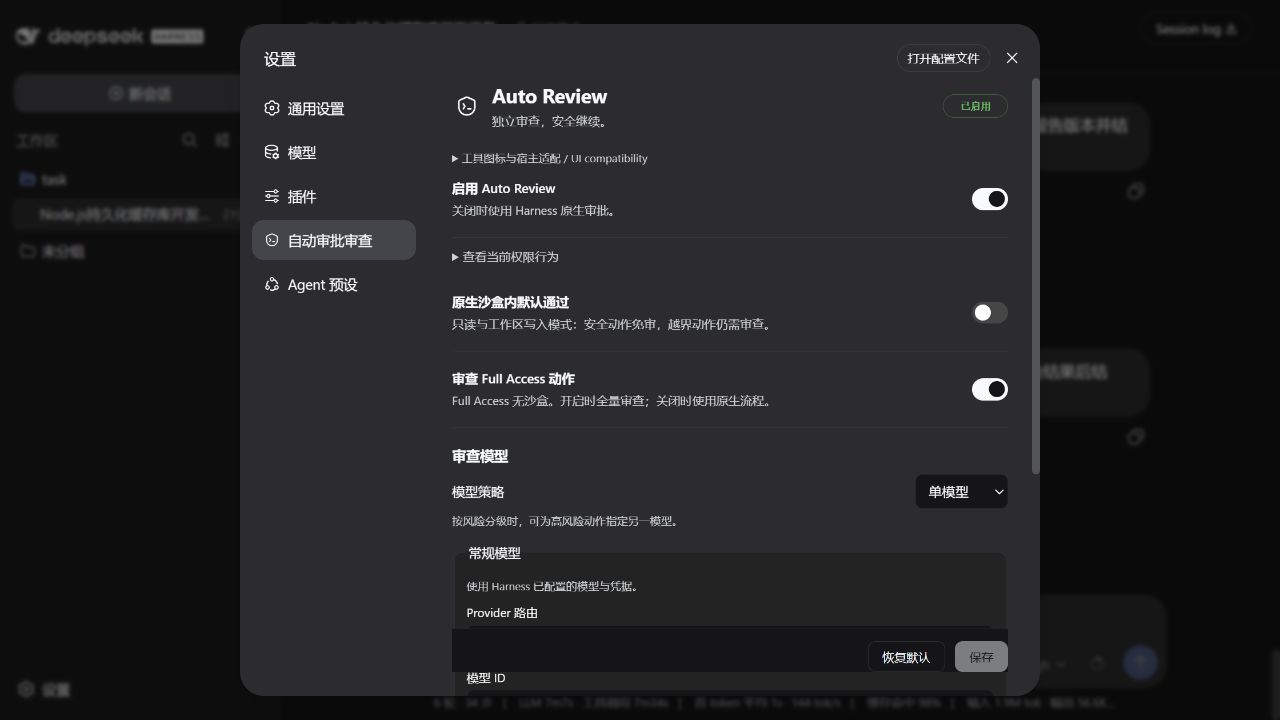
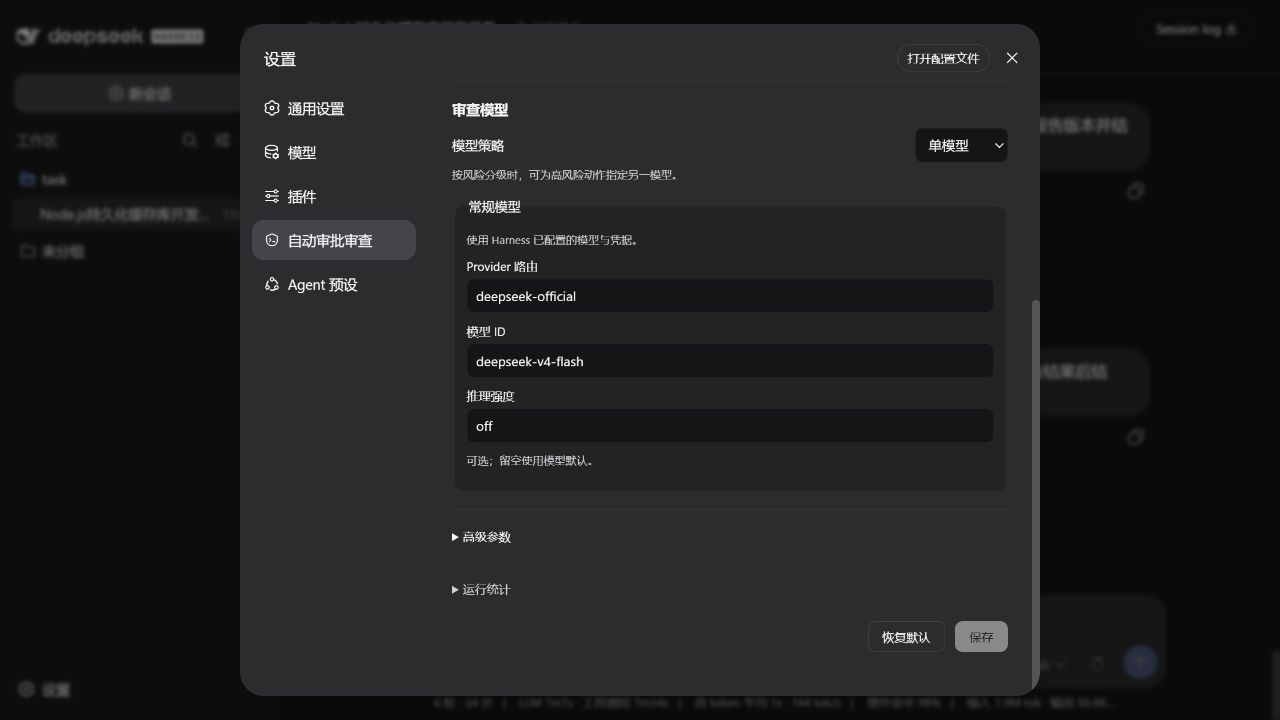
fix(#30): 修复设置底栏遮挡并补充简明流程与成本提示

diff --git a/src/client/index.tsx b/src/client/index.tsx
@@ -400,7 +400,7 @@ export function AutoReviewSettingsSection({ read, update, reset: resetSettings, 
 }
 
 const CSS = `
-.ar-controls{border:0;padding:0;margin:0;min-width:0}.ar-controls:disabled{opacity:.65}.ar-actions{position:sticky;bottom:0;background:var(--dsw-alias-bg-base);padding:12px 0;z-index:1}.ar-page :focus-visible{outline:2px solid var(--dsw-alias-brand-primary);outline-offset:3px}
+.ar-controls{border:0;padding:0;margin:0;min-width:0}.ar-controls:disabled{opacity:.65}.ar-page :focus-visible{outline:2px solid var(--dsw-alias-brand-primary);outline-offset:3px}
 .ar-header-title{display:flex;align-items:flex-start;gap:10px}.ar-product-logo{display:inline-grid;place-items:center;flex:0 0 auto;width:30px;height:30px;color:var(--dsw-alias-label-primary)}
 .ar-help{display:block!important;margin-top:5px!important;color:var(--dsw-alias-label-secondary)!important;font-size:11px!important;line-height:1.45!important;font-weight:400!important}.ar-setting-block{margin:10px 0 14px}.ar-setting-block .ar-select-row{margin-bottom:0}.ar-indented-help{margin-left:23px!important}.ar-advanced-help{margin-top:9px!important}.ar-field-grid .ar-field-source{font-size:10px}.ar-field-grid .ar-help{margin-top:0!important}
 .ar-page{max-width:760px;padding:8px 4px 36px;color:var(--dsw-alias-label-primary)}.ar-header{display:flex;justify-content:space-between;gap:24px;align-items:flex-start;margin-bottom:18px}.ar-header h2{font-size:22px;margin:0 0 6px}.ar-header p,.ar-card p{margin:0;color:var(--dsw-alias-label-secondary);line-height:1.5}.ar-live{font:600 10px/1.8 ui-monospace,monospace;color:var(--dsw-alias-state-success-primary);border:1px solid color-mix(in srgb,var(--dsw-alias-state-success-primary) 35%,transparent);border-radius:999px;padding:0 8px}.ar-card{background:var(--dsw-alias-bg-layer-1);border:1px solid var(--dsw-alias-border-l1);border-radius:12px;padding:18px;margin:12px 0}.ar-toggle-row{display:flex;align-items:center;justify-content:space-between;gap:22px}.ar-toggle-row strong,.ar-card h3{display:block;margin:0 0 5px;font-size:14px}.ar-switch{width:44px;height:24px;border:0;border-radius:999px;padding:3px;background:var(--dsw-alias-border-l2);cursor:pointer}.ar-switch span{display:block;width:18px;height:18px;border-radius:50%;background:#fff;transition:transform .15s}.ar-switch[aria-checked=true]{background:var(--dsw-alias-brand-primary)}.ar-switch[aria-checked=true] span{transform:translateX(20px)}.ar-select-row{display:flex;align-items:center;justify-content:space-between;gap:16px;margin:10px 0}.ar-select-row select,.ar-profile-grid input{box-sizing:border-box;border:1px solid var(--dsw-alias-border-l1);border-radius:7px;padding:8px;background:var(--dsw-alias-bg-base);color:inherit}.ar-profile-grid{display:grid;grid-template-columns:repeat(2,minmax(0,1fr));gap:12px}.ar-profile-grid fieldset{border:1px solid var(--dsw-alias-border-l1);border-radius:9px;padding:12px}.ar-profile-grid label{display:flex;flex-direction:column;gap:5px;font-size:12px;margin:8px 0}.ar-check{display:flex;align-items:center;gap:7px;margin-top:12px;font-size:12px}.ar-kind-grid{display:grid;grid-template-columns:repeat(3,minmax(0,1fr));gap:7px;margin-top:10px;font-size:12px}.ar-kind-grid label{display:flex;align-items:center;gap:5px}.ar-advanced summary{cursor:pointer;font-weight:600}.ar-field-grid{display:grid;grid-template-columns:repeat(2,minmax(0,1fr));gap:14px;margin-top:16px}.ar-field-grid label{display:grid;grid-template-columns:1fr auto;align-items:center;gap:6px;font-size:12px}.ar-field-grid input{grid-column:1/3;width:100%;box-sizing:border-box;border:1px solid var(--dsw-alias-border-l1);border-radius:7px;padding:8px;background:var(--dsw-alias-bg-base);color:inherit}.ar-field-grid small{grid-column:1/3;color:var(--dsw-alias-label-secondary)}.ar-actions{display:flex;justify-content:flex-end;gap:10px;margin-top:18px}.ar-actions button{border-radius:8px;padding:8px 15px;cursor:pointer}.ar-secondary{background:transparent;color:inherit;border:1px solid var(--dsw-alias-border-l2)}.ar-primary{background:var(--dsw-alias-button-primary-fill);color:var(--dsw-alias-label-primary-foreground);border:1px solid var(--dsw-alias-button-primary-fill)}.ar-actions button:disabled{opacity:.45;cursor:not-allowed}.ar-notice{font-size:12px;text-align:right}.ar-saved{color:var(--dsw-alias-state-success-primary)}.ar-failed{color:var(--dsw-alias-state-error-primary)}.ar-muted{color:var(--dsw-alias-label-secondary)}@media(max-width:680px){.ar-profile-grid,.ar-field-grid{grid-template-columns:1fr}.ar-kind-grid{grid-template-columns:repeat(2,minmax(0,1fr))}}
@@ -440,7 +440,8 @@ const CSS = `
 .ar-profile-grid label{margin:10px 0}
 .ar-advanced summary,.ar-statistics>summary{font-size:12px;font-weight:500;cursor:pointer}
 .ar-statistics{margin-top:18px;color:var(--dsw-alias-label-secondary)}
-.ar-actions{margin-top:12px;border-top:1px solid var(--dsw-alias-border-l1);padding:12px 0 0}
+/* 宿主负责滚动；操作栏参与正常排版，避免遮挡模型和高级设置。 */
+.ar-actions{position:static;background:transparent;flex-wrap:wrap;margin-top:12px;border-top:1px solid var(--dsw-alias-border-l1);padding:12px 0 0}
 .ar-actions button{font-size:12px;padding:7px 14px}
 @media(max-width:600px){.ar-profile-grid,.ar-field-grid{grid-template-columns:1fr}.ar-header{gap:8px}.ar-header h2{font-size:18px}.ar-page{padding-inline:0}.ar-kind-grid{grid-template-columns:repeat(2,minmax(0,1fr))}}
 `

diff --git a/tests/settings-footer-layout.spec.ts b/tests/settings-footer-layout.spec.ts
@@ -1,0 +1,11 @@
+import { readFileSync } from 'node:fs'
+import { expect, it } from 'vitest'
+
+it('keeps settings actions in document flow without an opaque overlay', () => {
+  const source = readFileSync(new URL('../src/client/index.tsx', import.meta.url), 'utf8')
+  const rules = [...source.matchAll(/\.ar-actions\{([^}]+)\}/g)].map(match => match[1]).join(';')
+  expect(rules).toContain('position:static')
+  expect(rules).toContain('background:transparent')
+  expect(rules).not.toMatch(/position:(sticky|fixed|absolute)|z-index:|bottom:/)
+  expect(source.indexOf('<footer className="ar-actions">')).toBeGreaterThan(source.indexOf('</fieldset>\n      {snapshot.metrics'))
+})

diff --git a/README.md b/README.md
@@ -18,13 +18,27 @@
 - 同一回合连续 3 次拒绝，或最近 50 次审查累计 10 次拒绝，会强制结束当前回合，不会删除会话。
 - 默认使用 Flash，也可选择 DSH 已配置的其他模型，或按风险分级选择模型。
 
+## 它如何工作
+
+普通操作先遵循 DSH 的权限与沙盒设置；需要审查的操作，再交给独立的 Reviewer：
+
+```text
+操作 → 原生权限与沙盒 → 无需审查：继续执行
+                     → 需要审查：Reviewer → 批准后继续
+                                         → 拒绝：换安全方案，或停下来问你
+```
+
+反复被拒仍继续尝试时，熔断会结束当前回合。它不是自动放行，也不会因为审查出错而跳过安全检查。
+
+**请留意额外的 token 费用。** 每次审查都需要发送操作、相关上下文与策略。以此前反馈的小样本为例，约 8 次较高频审查可能累计数万输入 token，输入缓存命中约 50%；这不是固定开销或命中率保证，实际取决于模型、上下文和请求前缀是否重复。缓存命中的输入通常也并非免费，请以 Provider 的用量与价格为准。
+
 ## 安装
 
 支持 **Linux x86_64 / glibc 2.31+**，建议 Node.js **24.20.0**。
 
-一个插件包自动匹配 **DSH 0.1.0-rc.6、0.1.1-rc.2、0.1.2-alpha.5**，不用选择插件的 rc6 / rc2 / alpha5 通道。不识别的宿主版本会明确报错，不会强行安装旧适配。
+一个 npm 包共用后端，安装时只下载当前宿主需要的界面适配。自动匹配 **DSH 0.1.0-rc.6、0.1.1-rc.2、0.1.2-alpha.5**，不用选择插件的 rc6 / rc2 / alpha5 通道。不识别的宿主版本会明确报错，不会强行安装旧适配。
 
-> 此分支为 0.6.0 发布准备。npm 发布完成前，请从本分支 Actions 取得候选 tgz，通过 `dsh plugin --profile web add ./候选包.tgz` 安装。
+> 此分支为 0.6.1 发布准备。npm 发布完成前，请从本分支 Actions 取得候选 tgz，通过 `dsh plugin --profile web add ./候选包.tgz` 安装。
 > DSH 的 `latest` 目前已到 0.1.2-rc.1，尚不在上述兼容范围。新环境请先安装下面的固定宿主版本。
 
 ### 1. 安装 DSH 和插件
@@ -52,14 +66,18 @@ export DSH_AUTO_REVIEW_NATIVE_RUNTIME=/opt/dsh-auto-review-native/0.1.0-rc.2/nod
 
 ### 3. 安装界面图标
 
-停止 DSH 后运行；会自动识别匹配的宿主版本，检查原文件并保留备份：
+停止 DSH 后运行；会自动识别宿主版本，只下载对应适配，校验内容并保留原文件备份：
 
 ```sh
 npx --yes --package=@jhckevin/dsh-auto-review dsh-auto-review-ui
 dsh --profile web
 ```
 
+无法直连 GitHub 时，可在安装界面图标前设置 `export DSH_AUTO_REVIEW_DOWNLOAD_MIRROR=https://ghfast.top/`；仍会核对固定内容哈希。
+
 若没有找到宿主，增加 `--dsh-root /实际的/node_modules`。需要还原时运行同一安装器并加 `--restore`。界面适配需要重启 DSH；它不修改工具执行、权限或沙盒代码。[详细说明](docs/UI-INSTALL.md)
+
+同名插件升级由 DSH/npm 替换当前 profile 中的旧包，不会并排启用三个版本。原生 bridge 的 host/platform 包是必需依赖，不是多余版本；不会清理会话、配置、密钥或其他 profile。
 
 ### 4. 配置模型
 
